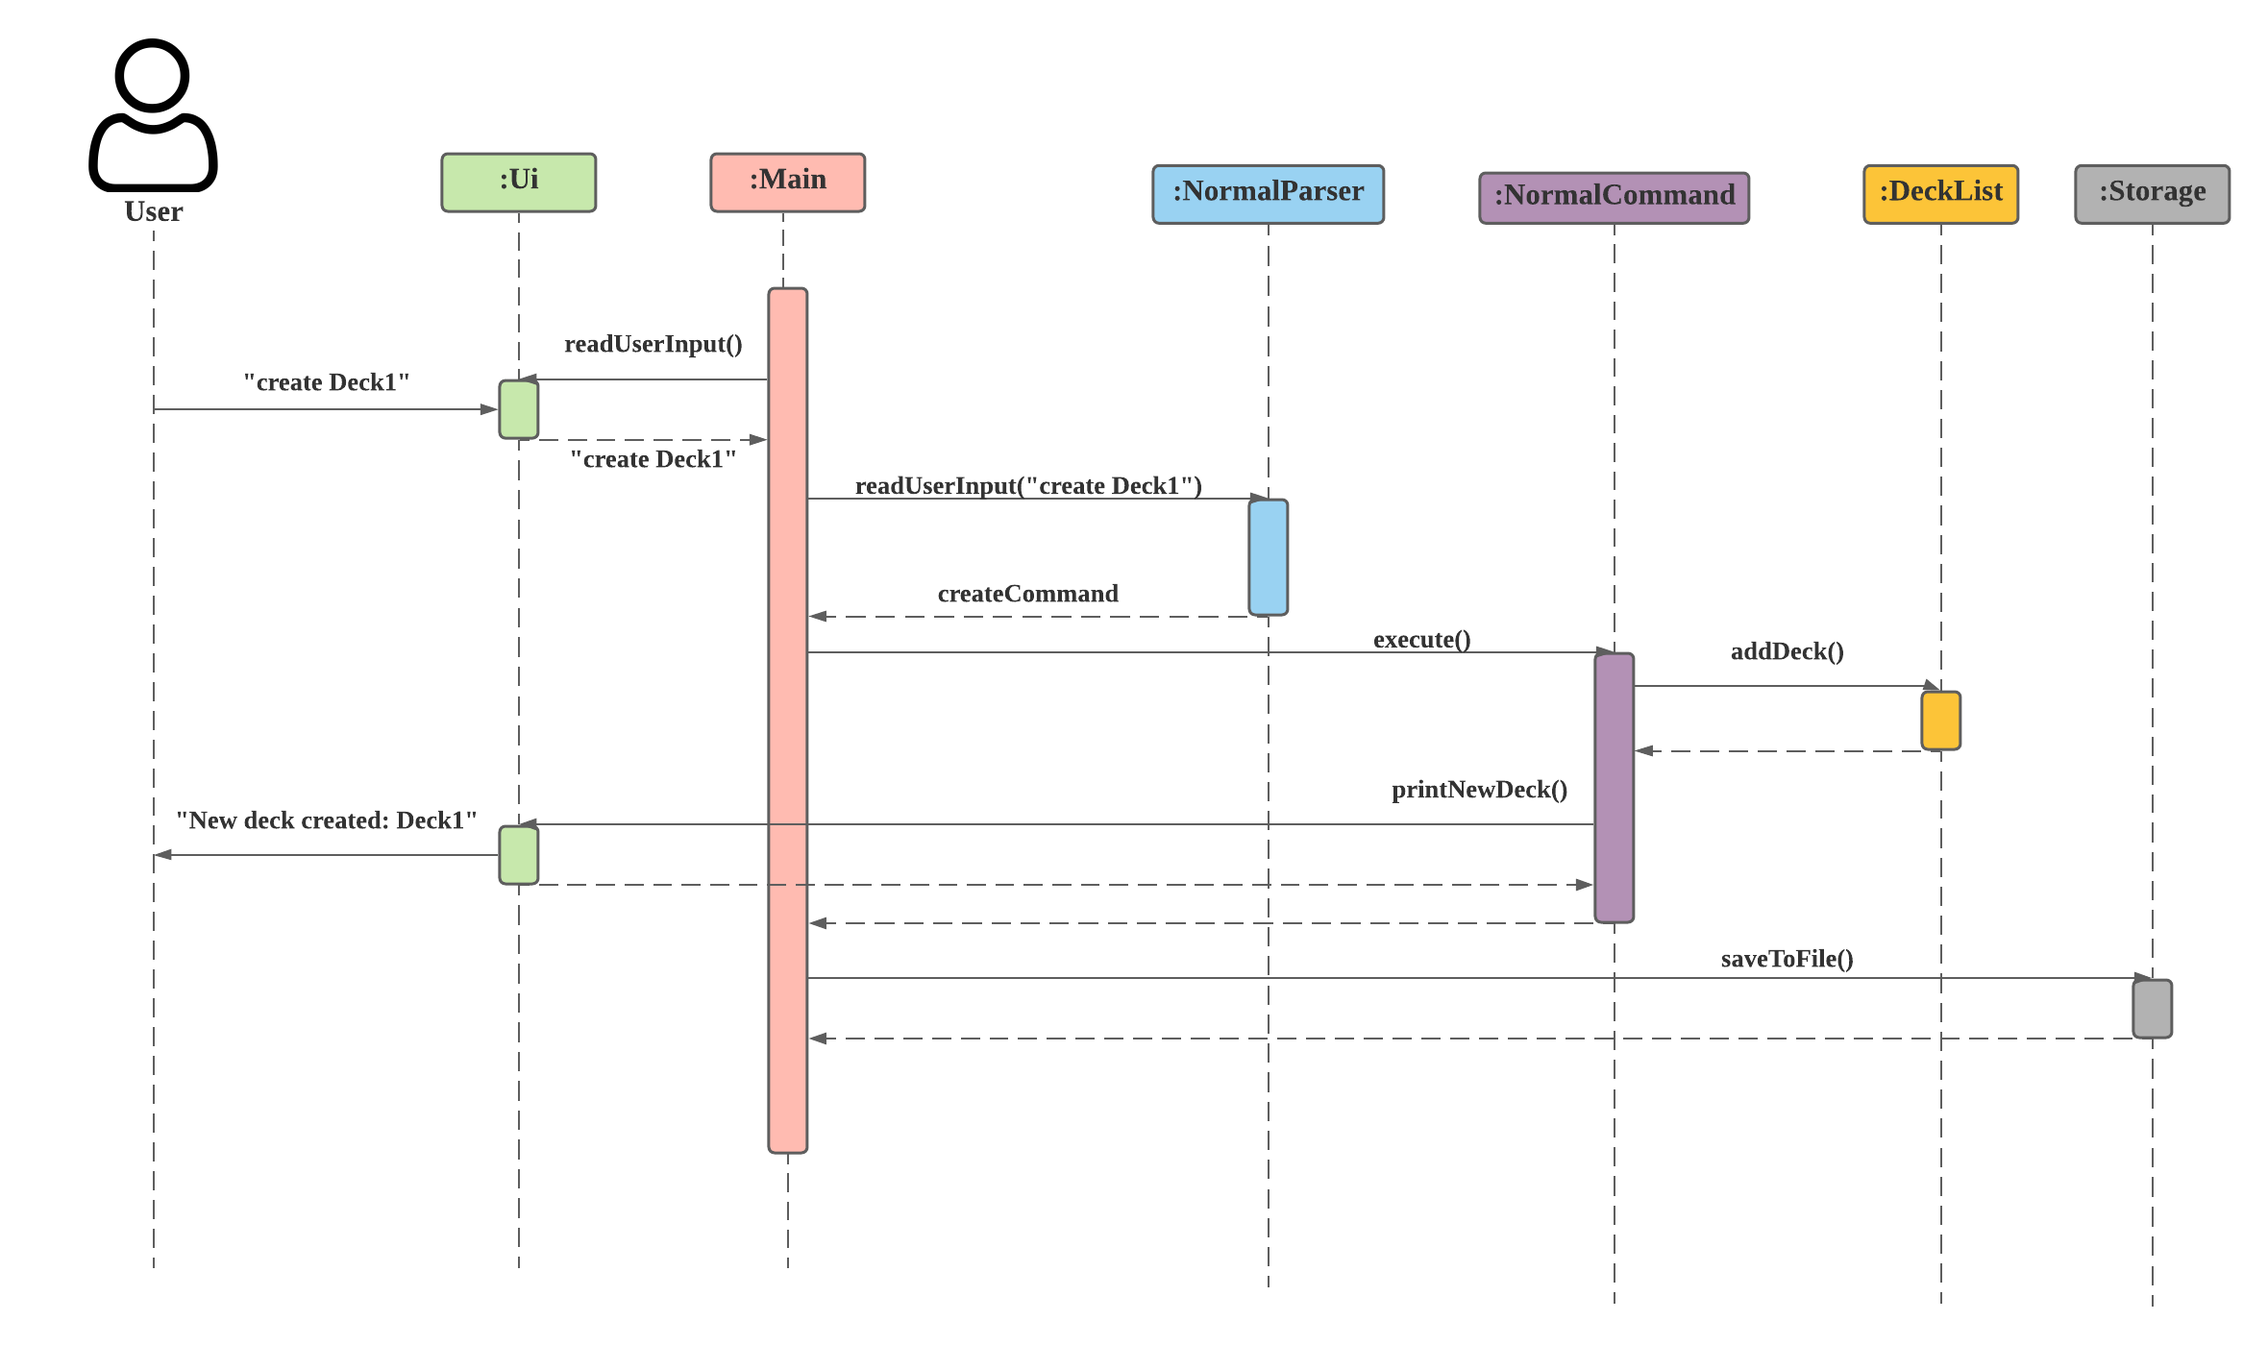
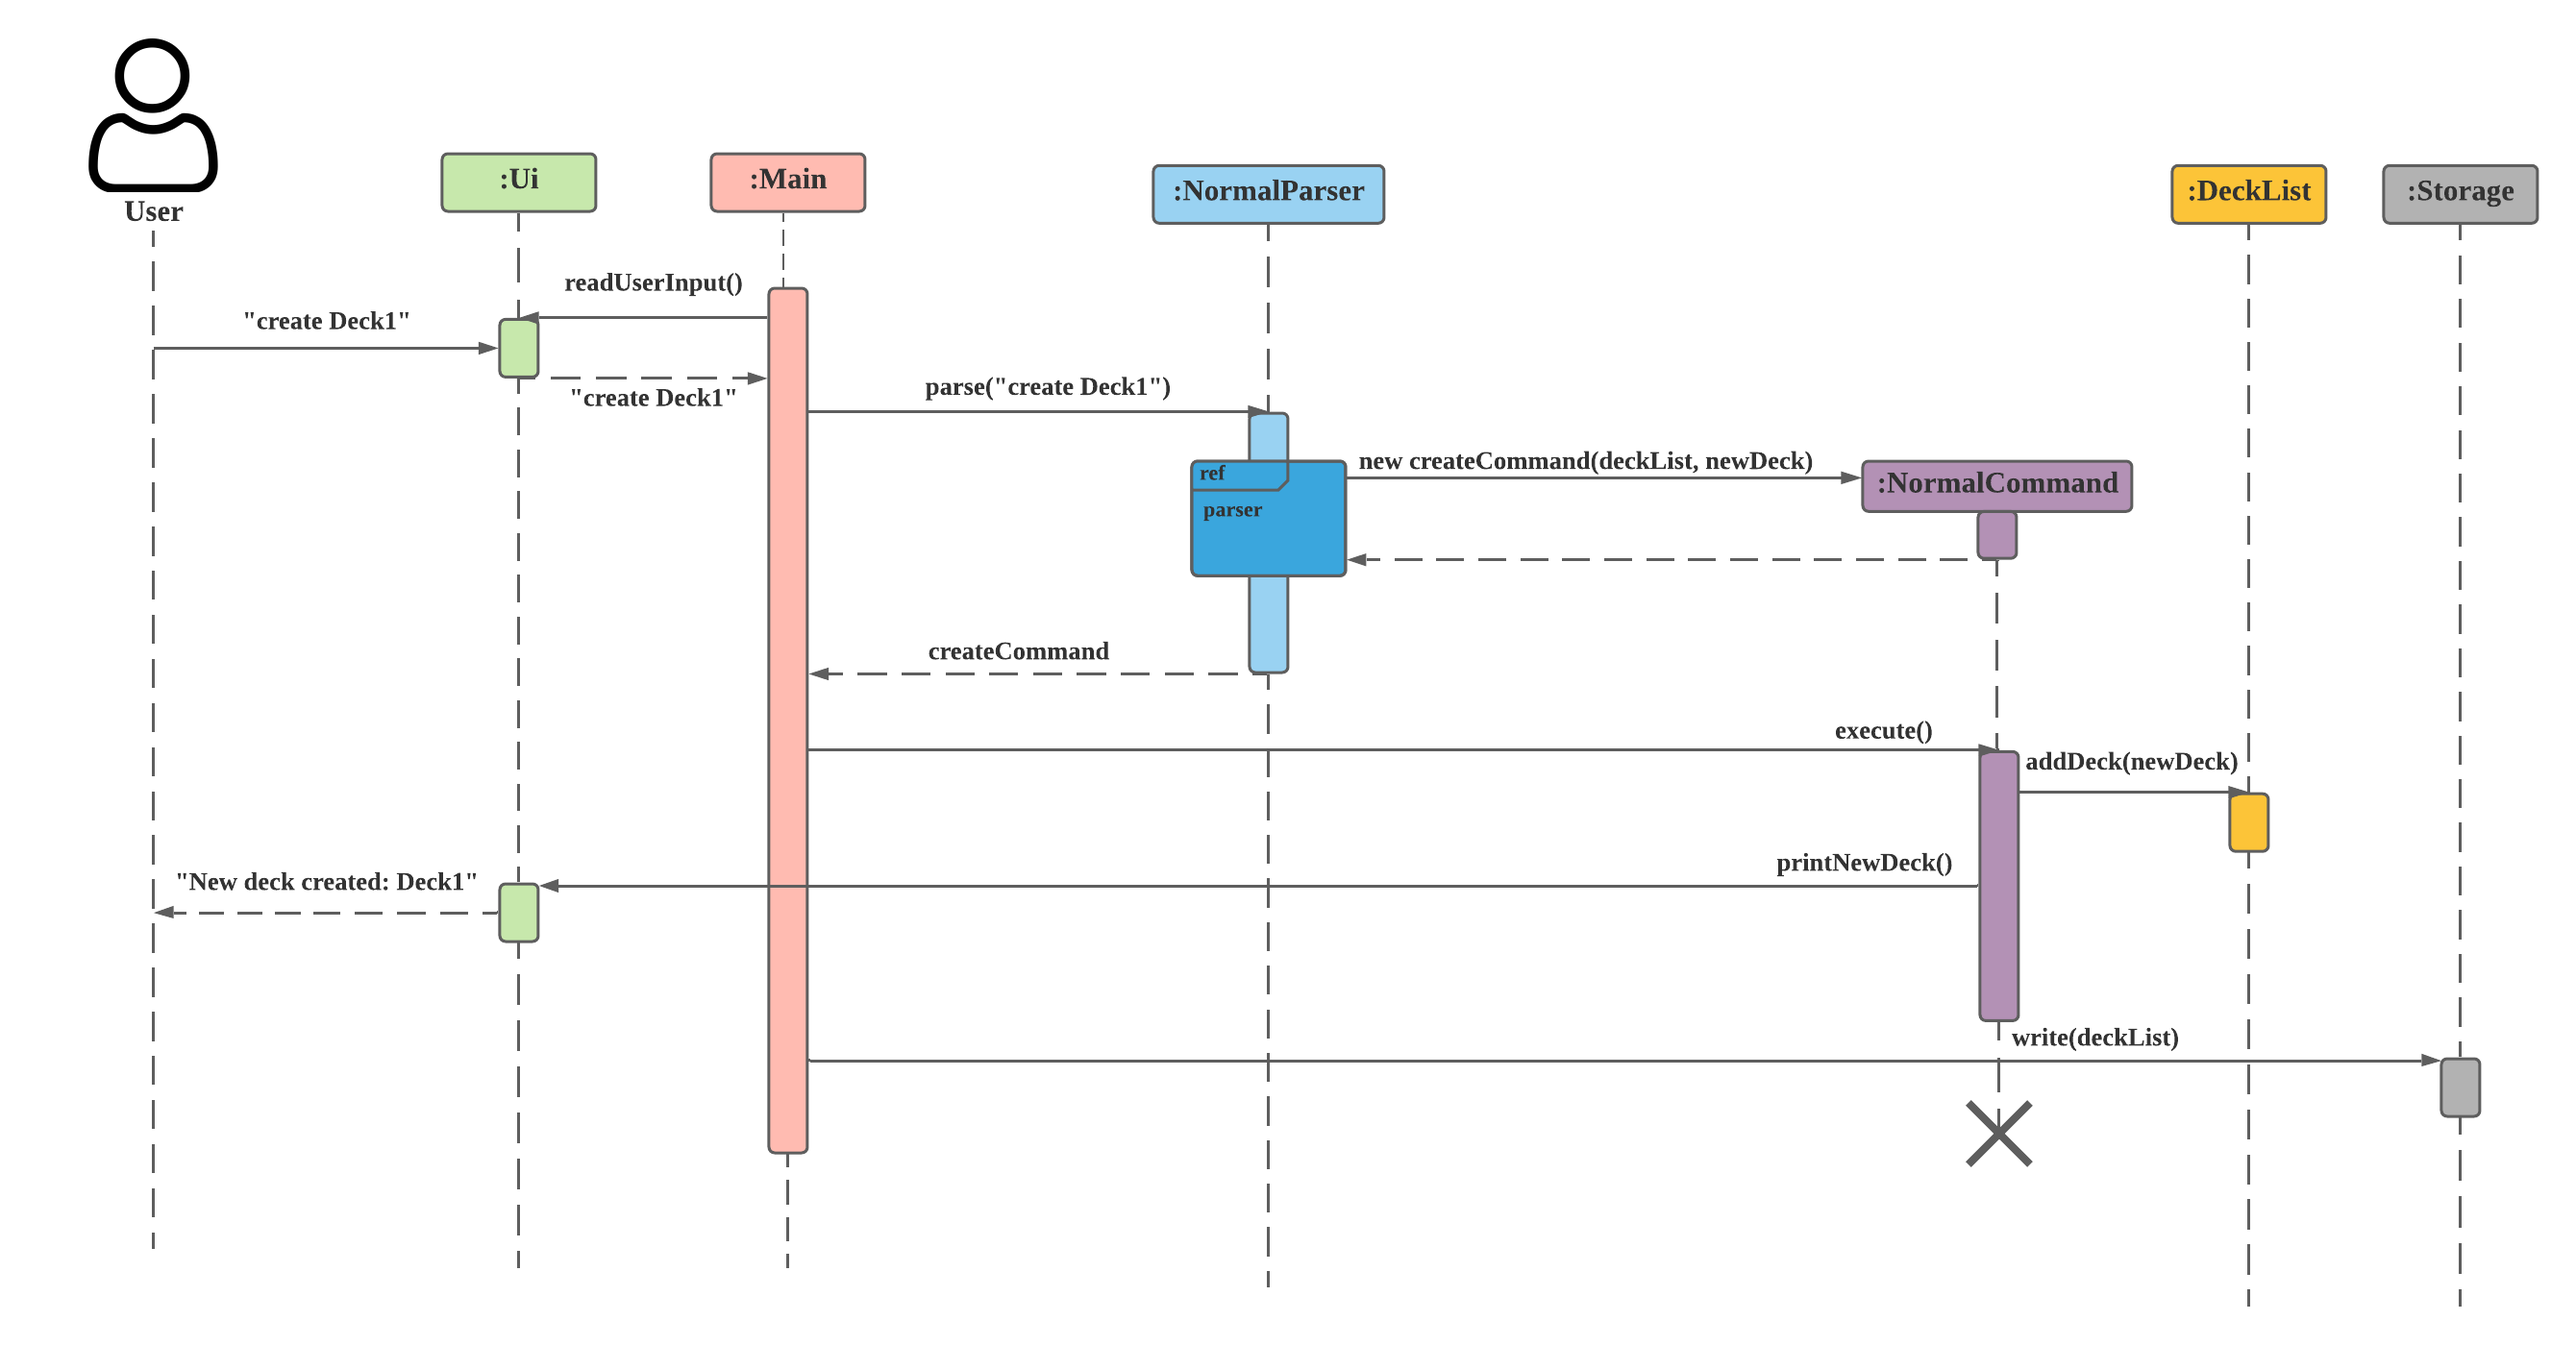
Fixed some PE-D and Peer Review DG bugs

diff --git a/src/main/java/seedu/ecardnomics/Ui.java b/src/main/java/seedu/ecardnomics/Ui.java
@@ -122,6 +122,12 @@ public class Ui {
     public static final String N = "n";
     public static final String DASH_LINES = "------------------------------------------------------------";
 
+    public static final String LOGO1 = "        ___              _                       _           ";
+    public static final String LOGO2 = "  ___  / __\\__ _ _ __ __| |_ __   ___  _ __ ___ (_) ___ ___  ";
+    public static final String LOGO3 = " / _ \\/ /  / _` | '__/ _` | '_ \\ / _ \\| '_ ` _ \\| |/ __/ __|";
+    public static final String LOGO4 = "|  __/ /__| (_| | | | (_| | | | | (_) | | | | | | | (__\\__ \\";
+    public static final String LOGO5 = " \\___\\____/\\__,_|_|  \\__,_|_| |_|\\___/|_| |_| |_|_|\\___|___/";
+
     public static Scanner in = new Scanner(System.in);
     private static Logger logger = Logger.getLogger("UiLogger");
 
@@ -134,7 +140,9 @@ public class Ui {
         return in.nextLine();
     }
 
-    /** Displays dash line. */
+    /**
+     * Displays dash line.
+     */
     public static void printDashLines() {
         System.out.println(DASH_LINES);
     }
@@ -148,6 +156,15 @@ public class Ui {
         printDashLines();
         System.out.println(message);
         printDashLines();
+    }
+
+    public static void printLogo() {
+        System.out.println(LOGO1);
+        System.out.println(LOGO2);
+        System.out.println(LOGO3);
+        System.out.println(LOGO4);
+        System.out.println(LOGO5);
+        System.out.println("");
     }
 
     /**
@@ -206,7 +223,10 @@ public class Ui {
      * Displays the greeting message.
      */
     public static void printGreeting() {
-        printMessage(GREETING_LINES);
+        printDashLines();
+        printLogo();
+        System.out.println(GREETING_LINES);
+        printDashLines();
     }
 
     /**
@@ -258,7 +278,7 @@ public class Ui {
     /**
      * Displays an index list of FlashCards in the deck.
      *
-     * @param deck deck to display
+     * @param deck           deck to display
      * @param isQuestionOnly print question only if true, question and answer otherwise
      */
     public static void printDeck(Deck deck, boolean isQuestionOnly) {
@@ -449,7 +469,7 @@ public class Ui {
     /**
      * Prints the new tags added to the deck.
      *
-     * @param name the name of the deck
+     * @param name    the name of the deck
      * @param newTags the tag(s) will be added to the deck
      */
     public static void printNewTags(String name, String[] newTags) {
@@ -469,7 +489,7 @@ public class Ui {
      * Prints confirmation question before tag removal.
      *
      * @param deckName the name of the deck having tags being removed
-     * @param tags the tags will be removed
+     * @param tags     the tags will be removed
      */
     public static void printRemovedTagsQuestion(String deckName, String[] tags) {
         String removedTags = formStringOfTags(tags);
@@ -480,7 +500,7 @@ public class Ui {
      * Prints the tags that are removed from the specified deck.
      *
      * @param deckName the name of the deck having removed tags
-     * @param tags tags were removed
+     * @param tags     tags were removed
      */
     public static void printTagsRemovedLine(String deckName, String[] tags) {
         String removedTags = formStringOfTags(tags);
@@ -571,7 +591,7 @@ public class Ui {
      * Checks whether the user want to remove the tags specified
      * from the deck specified.
      *
-     * @param tags String[] representing the tags be removed
+     * @param tags     String[] representing the tags be removed
      * @param deckName String representing the index of the deck of the tags
      * @return true if the removal is confirmed, otherwise false
      */

diff --git a/README.md b/README.md
@@ -1,64 +1,14 @@
-# Duke project template
+# eCardnomics
+            ___              _                       _           
+      ___  / __\__ _ _ __ __| |_ __   ___  _ __ ___ (_) ___ ___  
+     / _ \/ /  / _` | '__/ _` | '_ \ / _ \| '_ ` _ \| |/ __/ __| 
+    |  __/ /__| (_| | | | (_| | | | | (_) | | | | | | | (__\__ \ 
+     \___\____/\__,_|_|  \__,_|_| |_|\___/|_| |_| |_|_|\___|___/
 
-This is a project template for a greenfield Java project. It's named after the Java mascot _Duke_. Given below are instructions on how to use it.
+eCardnomics is a **desktop flashcard application to quickly create, manage, and access new flashcards via a Command
+ Line Interface (CLI)**.
 
-## Setting up in Intellij
-
-Prerequisites: JDK 11 (use the exact version), update Intellij to the most recent version.
-
-1. **Configure Intellij for JDK 11**, as described [here](https://se-education.org/guides/tutorials/intellijJdk.html).
-1. **Import the project _as a Gradle project_**, as described [here](https://se-education.org/guides/tutorials/intellijImportGradleProject.html).
-1. **Verify the set up**: After the importing is complete, locate the `src/main/java/seedu/duke/Duke.java` file, right-click it, and choose `Run Duke.main()`. If the setup is correct, you should see something like the below:
-   ```
-   > Task :compileJava
-   > Task :processResources NO-SOURCE
-   > Task :classes
-   
-   > Task :Duke.main()
-   Hello from
-    ____        _        
-   |  _ \ _   _| | _____ 
-   | | | | | | | |/ / _ \
-   | |_| | |_| |   <  __/
-   |____/ \__,_|_|\_\___|
-   
-   What is your name?
-   ```
-   Type some word and press enter to let the execution proceed to the end.
-
-## Build automation using Gradle
-
-* This project uses Gradle for build automation and dependency management. It includes a basic build script as well (i.e. the `build.gradle` file).
-* If you are new to Gradle, refer to the [Gradle Tutorial at se-education.org/guides](https://se-education.org/guides/tutorials/gradle.html).
-
-## Testing
-
-### I/O redirection tests
-
-* To run _I/O redirection_ tests (aka _Text UI tests_), navigate to the `text-ui-test` and run the `runtest(.bat/.sh)` script.
-
-### JUnit tests
-
-* A skeleton JUnit test (`src/test/java/seedu/duke/DukeTest.java`) is provided with this project template. 
-* If you are new to JUnit, refer to the [JUnit Tutorial at se-education.org/guides](https://se-education.org/guides/tutorials/junit.html).
-
-## Checkstyle
-
-* A sample CheckStyle rule configuration is provided in this project.
-* If you are new to Checkstyle, refer to the [Checkstyle Tutorial at se-education.org/guides](https://se-education.org/guides/tutorials/checkstyle.html).
-
-## CI using GitHub Actions
-
-The project uses [GitHub actions](https://github.com/features/actions) for CI. When you push a commit to this repo or PR against it, GitHub actions will run automatically to build and verify the code as updated by the commit/PR.
-
-## Documentation
-
-`/docs` folder contains a skeleton version of the project documentation.
-
-Steps for publishing documentation to the public: 
-1. If you are using this project template for an individual project, go your fork on GitHub.<br>
-   If you are using this project template for a team project, go to the team fork on GitHub.
-1. Click on the `settings` tab.
-1. Scroll down to the `GitHub Pages` section.
-1. Set the `source` as `master branch /docs folder`.
-1. Optionally, use the `choose a theme` button to choose a theme for your documentation.
+Useful links:
+* [User Guide](https://ay2021s1-cs2113-t14-2.github.io/tp/UserGuide.html)
+* [Developer Guide](https://ay2021s1-cs2113-t14-2.github.io/tp/DeveloperGuide.html)
+* [About Us](AboutUs.md)

diff --git a/docs/DeveloperGuide.md b/docs/DeveloperGuide.md
@@ -18,8 +18,17 @@ The **Architecture Diagram** given above explains the high-level design of the F
 * `Storage` Reads and writes data from and to a text file.
 
 #### How to **components** interact with one another
+The following **Sequence Diagram** shows how the components interact for a basic `create <deck name>` command where a new deck is created and added in to the `Deck List`.
+
 ![Sequence Diagram](images-dg/Sequence%20Diagram.png)
-The **Sequence Diagram** above shows how the components interact for a basic `create <deck name>` command where a new deck is created and added in to the `Deck List`.
+The sequence shown is as follows:
+* The **`Main`** instance runs and calls the *`readUserInput()`*  of **`Ui`**. The function waits for the user to key in one line of input 
+and then returns that input as a String to **`Main`**. **`Main`** calls *`parse`* of which creates a new **`CreateCommand`** and this is returned to **`Main`**. 
+This section will be explained in details in the `Parser` section later on.
+**`Main`** then calls for *`execute()`*  of the *`CreateCommand`* that calls *`addDeck()`* of **`DeckList`** and subsequently  *`printNewDeck()`* 
+of **`Ui`** which prints the output to the user. 
+Finally, **`Main`** calls *`write()`* of **`Storage`** to write the updated Deck List to the text file.
+
 
 ### User Interface
 
@@ -132,7 +141,10 @@ The `PowerPointCommand` is parsed by `NormalParser` but the "Print to PowerPoint
 and Deck Mode. 
 
 The following diagram shows how the `PowerPointCommand`'s `execute()` calls the `createNewPowerPoint()` method of `PowerPoint`.
-![PPTX Sequence Diagram](images-dg/DG-PPTX-Sequence-Diagram.png)
+*`execute()`* first checks if the whether `isPptxCreated` is `true` and only creates the PowerPoint if so. This is necessary as 
+the user might have input the command `pptx` but when prompt for confirmation, they input `n` which means no, but the parser will 
+still output a **`PowerPointCommand`** except with the element `isPptxCreated` as `false` and thus, when executed, nothing happens.
+![PPTX Sequence Diagram](images-dg/PPTX-Sequence-Diagram.png)
 
 The `newIntroSlide()`, `newSlide()` and `exportSlide()` method of `PowerPoint` uses a third party library - Apache POI 
 to create new slides, populate them with the questions and answers from the deck and finally print them out to a new PowerPoint

diff --git a/docs/README.md b/docs/README.md
@@ -1,4 +1,9 @@
 # eCardnomics
+            ___              _                       _           
+      ___  / __\__ _ _ __ __| |_ __   ___  _ __ ___ (_) ___ ___  
+     / _ \/ /  / _` | '__/ _` | '_ \ / _ \| '_ ` _ \| |/ __/ __| 
+    |  __/ /__| (_| | | | (_| | | | | (_) | | | | | | | (__\__ \ 
+     \___\____/\__,_|_|  \__,_|_| |_|\___/|_| |_| |_|_|\___|___/
 
 eCardnomics is a **desktop flashcard application to quickly create, manage, and access new flashcards via a Command
  Line Interface (CLI)**.
